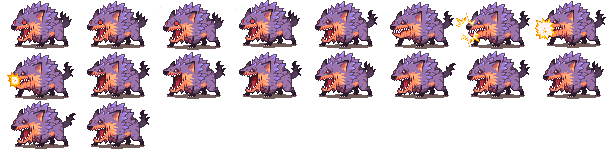
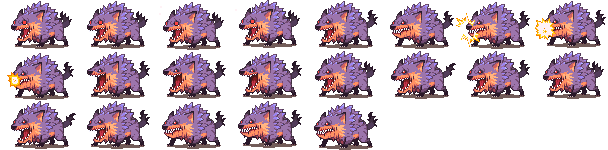
fix(client): separate wolf hit reactions from attack animations

Changed region(s): [[0.25, 0.6667, 0.625, 1.0]]

diff --git a/tests/test_monster_motion.py b/tests/test_monster_motion.py
@@ -25,12 +25,13 @@ class MonsterMotionTests(unittest.TestCase):
             with Image.open(ROOT / f"analysis/decoded_png/ssjx/monster/{animation['sources'][0]}_frame000.png") as image:
                 body = image.convert('RGBA')
             reverse = body.transpose(Image.Transpose.FLIP_LEFT_RIGHT)
+            derived = {row['frame']: row['source_frame'] for row in info.get('derived_frames', [])}
             masks = [[(x, y) for y in range(body.height) for x in range(body.width) if template.getpixel((x, y))[3]]
                      for template in (body, reverse)]
             for mode in ('idle', 'walk', 'attack'):
                 for index, _ in info['playback'][mode]:
                     with self.subTest(monster=name, mode=mode, frame=index):
-                        layer = next(layer for layer in animation['frames'][index]
+                        layer = next(layer for layer in animation['frames'][derived.get(index, index)]
                                      if layer['source'] == animation['sources'][0] and layer['frame'] == 0)
                         # Search neither coordinates nor direction: inspect the fixed actor
                         # anchor where the original, unmirrored head/body MUST be rendered.
@@ -56,7 +57,9 @@ class MonsterMotionTests(unittest.TestCase):
             self.assertEqual(json.loads(json.dumps(raw)), archived[name]['animation'])
             self.assertEqual([list(map(list, seq)) for seq in runtime['sequences']], archived[name]['animation']['sequences'])
             for mode, index in art.MONSTER_PLAYBACK['monster/' + name].items():
-                self.assertEqual(runtime['playback'][mode], animation['sequences'][index])
+                derived = {row['frame']: row['source_frame'] for row in runtime.get('derived_frames', [])}
+                restored = [(derived.get(frame, frame), duration) for frame, duration in runtime['playback'][mode]]
+                self.assertEqual(restored, animation['sequences'][index])
             texture = ROOT / 'client' / raw['texture'].removeprefix('res://')
             self.assertEqual(hashlib.sha256(texture.read_bytes()).hexdigest(), archived[name]['texture_sha256'])
 
@@ -70,6 +73,25 @@ class MonsterMotionTests(unittest.TestCase):
                 with Image.open(Path(folder) / f'monster_{name}.png') as actual, Image.open(ROOT / 'client' / info['texture'].removeprefix('res://')) as expected:
                     self.assertEqual(actual.size, expected.size)
                     self.assertEqual(actual.convert('RGBA').tobytes(), expected.convert('RGBA').tobytes())
+
+    def test_wolf_impact_pixels_belong_to_hurt_not_attack(self):
+        info = json.loads((ROOT / 'client/assets/data/actors/monster/langw.json').read_text('utf-8'))
+        with Image.open(ROOT / 'client/assets/actors/monster_langw.png') as image:
+            atlas = image.convert('RGBA')
+        def impact_pixels(frame):
+            x, y = frame % info['columns'] * info['width'], frame // info['columns'] * info['height']
+            pose = atlas.crop((x, y, x + info['width'], y + info['height']))
+            count = 0
+            for y in range(pose.height):
+                for x in range(pose.width):
+                    red, green, blue, alpha = pose.getpixel((x, y))
+                    if alpha and red > 235 and green > 180 and blue < 100:
+                        count += 1
+            return count
+        self.assertTrue(set(frame for frame, _ in info['playback']['attack']).isdisjoint(
+                        frame for frame, _ in info['playback']['hurt']))
+        self.assertTrue(all(impact_pixels(frame) == 0 for frame, _ in info['playback']['attack']))
+        self.assertTrue(all(impact_pixels(frame) >= 40 for frame, _ in info['playback']['hurt']))
 
 
 if __name__ == '__main__':

diff --git a/tools/import_assets.py b/tools/import_assets.py
@@ -111,7 +111,19 @@ def bake(key, animation, output_key=None, write_texture=True, texture_dir=None,
     source_dir = ANALYSIS / 'decoded_png/ssjx' / ('' if folder == 'main' else folder)
     frames = []
     bounds = [0, 0, 1, 1]
-    for layers in animation['frames']:
+    composites = list(animation['frames'])
+    derived_frames = []
+    if key == 'monster/langw' and output_key is None:
+        # The original attack reuses impact-bearing poses. Retain those poses
+        # for hurt/source_N; gameplay attack uses copies without the tx38 star.
+        for source_frame in (6, 7, 8):
+            layers = animation['frames'][source_frame]
+            if not any(layer['source'] == 'tx38' for layer in layers):
+                raise ValueError('Wolf impact layer no longer matches audited frames')
+            derived_frames.append({'frame': len(composites), 'source_frame': source_frame,
+                                   'excluded_sources': ['tx38']})
+            composites.append([layer for layer in layers if layer['source'] != 'tx38'])
+    for layers in composites:
         images = []
         head_center = None
         for layer in layers:
@@ -176,10 +188,18 @@ def bake(key, animation, output_key=None, write_texture=True, texture_dir=None,
             playback['cast'] = sequences[6]  # Original floating-staff flourish.
     elif key in MONSTER_PLAYBACK and output_key is None:
         playback = {mode: sequences[index] for mode, index in MONSTER_PLAYBACK[key].items()}
-    return {'texture': texture_prefix + filename, 'width': width,
+        if derived_frames:
+            replacements = {row['source_frame']: row['frame'] for row in derived_frames}
+            playback['attack'] = [[replacements.get(index, index), duration]
+                                  for index, duration in playback['attack']]
+            playback['hurt'] = [[6, 1], [7, 1], [8, 1]]
+    result = {'texture': texture_prefix + filename, 'width': width,
             'height': height, 'columns': columns, 'origin': [left, top],
             'anchor_x': 0, 'playback': playback,
             'count': len(frames), 'sequences': animation['sequences']}
+    if derived_frames:
+        result['derived_frames'] = derived_frames
+    return result
 
 
 def read_animations():

diff --git a/tests/wolf_reactions.md b/tests/wolf_reactions.md
@@ -1,0 +1,29 @@
+# 山狼攻击与受击效果分离
+
+用户反馈：单独预览山狼`attack`时，嘴部出现星形受击效果。上一轮修正了整身位移和镜像，但保留了原组合中的`tx38`星形层，所以攻击仍像同时受击。
+
+## 修改
+
+- 保留原18个运行组合及其`source_N`序列，新增18～20号派生组合：复制原6～8号动作姿态，只移除`tx38`效果层。`attack`用这些无星形效果的派生组合替换对应帧，其他攻击姿态、顺序、持续时间、锚点与朝向保持。
+- `hurt`独立使用原6～8号有星形效果的组合，是一次性受击动画，结束回到`idle`。元数据`derived_frames`记录每个新增组合的来源及移除层；原始ANI和管理页原包归档未修改。本次动作命名属于重建版表现规则，不声称恢复了原服全部状态语义。
+- 离线战斗在玩家造成伤害时播放山狼`hurt`，随后沿原有回合流程播放反击。
+- 联机战斗比较前后权威血量，实际掉血才播放`hurt`；反击延后至玩家动作及受击完成。被击败不反击；断线取消排队反击；新战斗清理旧计时。结果与伤害仍来自服务端，本轮只调整表现时序。
+- 其他怪物的攻击特效不作统一删除，以免误去掉其自身施法效果。
+
+## 验证
+
+```sh
+python -m unittest discover -s tests -p 'test_monster_motion.py'
+python -m unittest discover -s tests -p 'test_actor*.py'
+godot --headless --path client res://tests/monster_attack_test.tscn
+godot --path client res://tests/wolf_reaction_test.tscn -- --capture=/absolute/path/wolf-attack-hurt-separated.png
+godot --headless --path client res://tests/online_pve_test.tscn
+godot --headless --path client res://tests/test_runner.tscn
+godot --headless --path client res://tests/data_browser_test.tscn
+```
+
+像素回归直接检查运行图集：所有攻击帧没有金黄色星形像素，3个受击帧保留星形像素；攻击/受击使用不同组合。派生帧按`source_frame`追溯，在固定锚点匹配主身体原图，保留上一轮对漂移和翻向的检查。原归档哈希与原序列保持一致，重新导出的RGBA像素与元数据一致。
+
+2026-10-16，Windows / Godot 4.7.1：Python怪物专项4项、演员/导入15项、资源路径6项通过；Godot怪物动作135项、受击/反击时序实际渲染11项、联机战斗28项、离线主流程383项、管理页9575项通过。截图已目视确认左右两种朝向下`attack`无星形、`hurt`有星形。新增测试直接覆盖断线、新战斗、无伤害和击败后的排队行为。
+
+已有进程可能缓存旧元数据与SpriteFrames，需要重新运行游戏或管理页。
